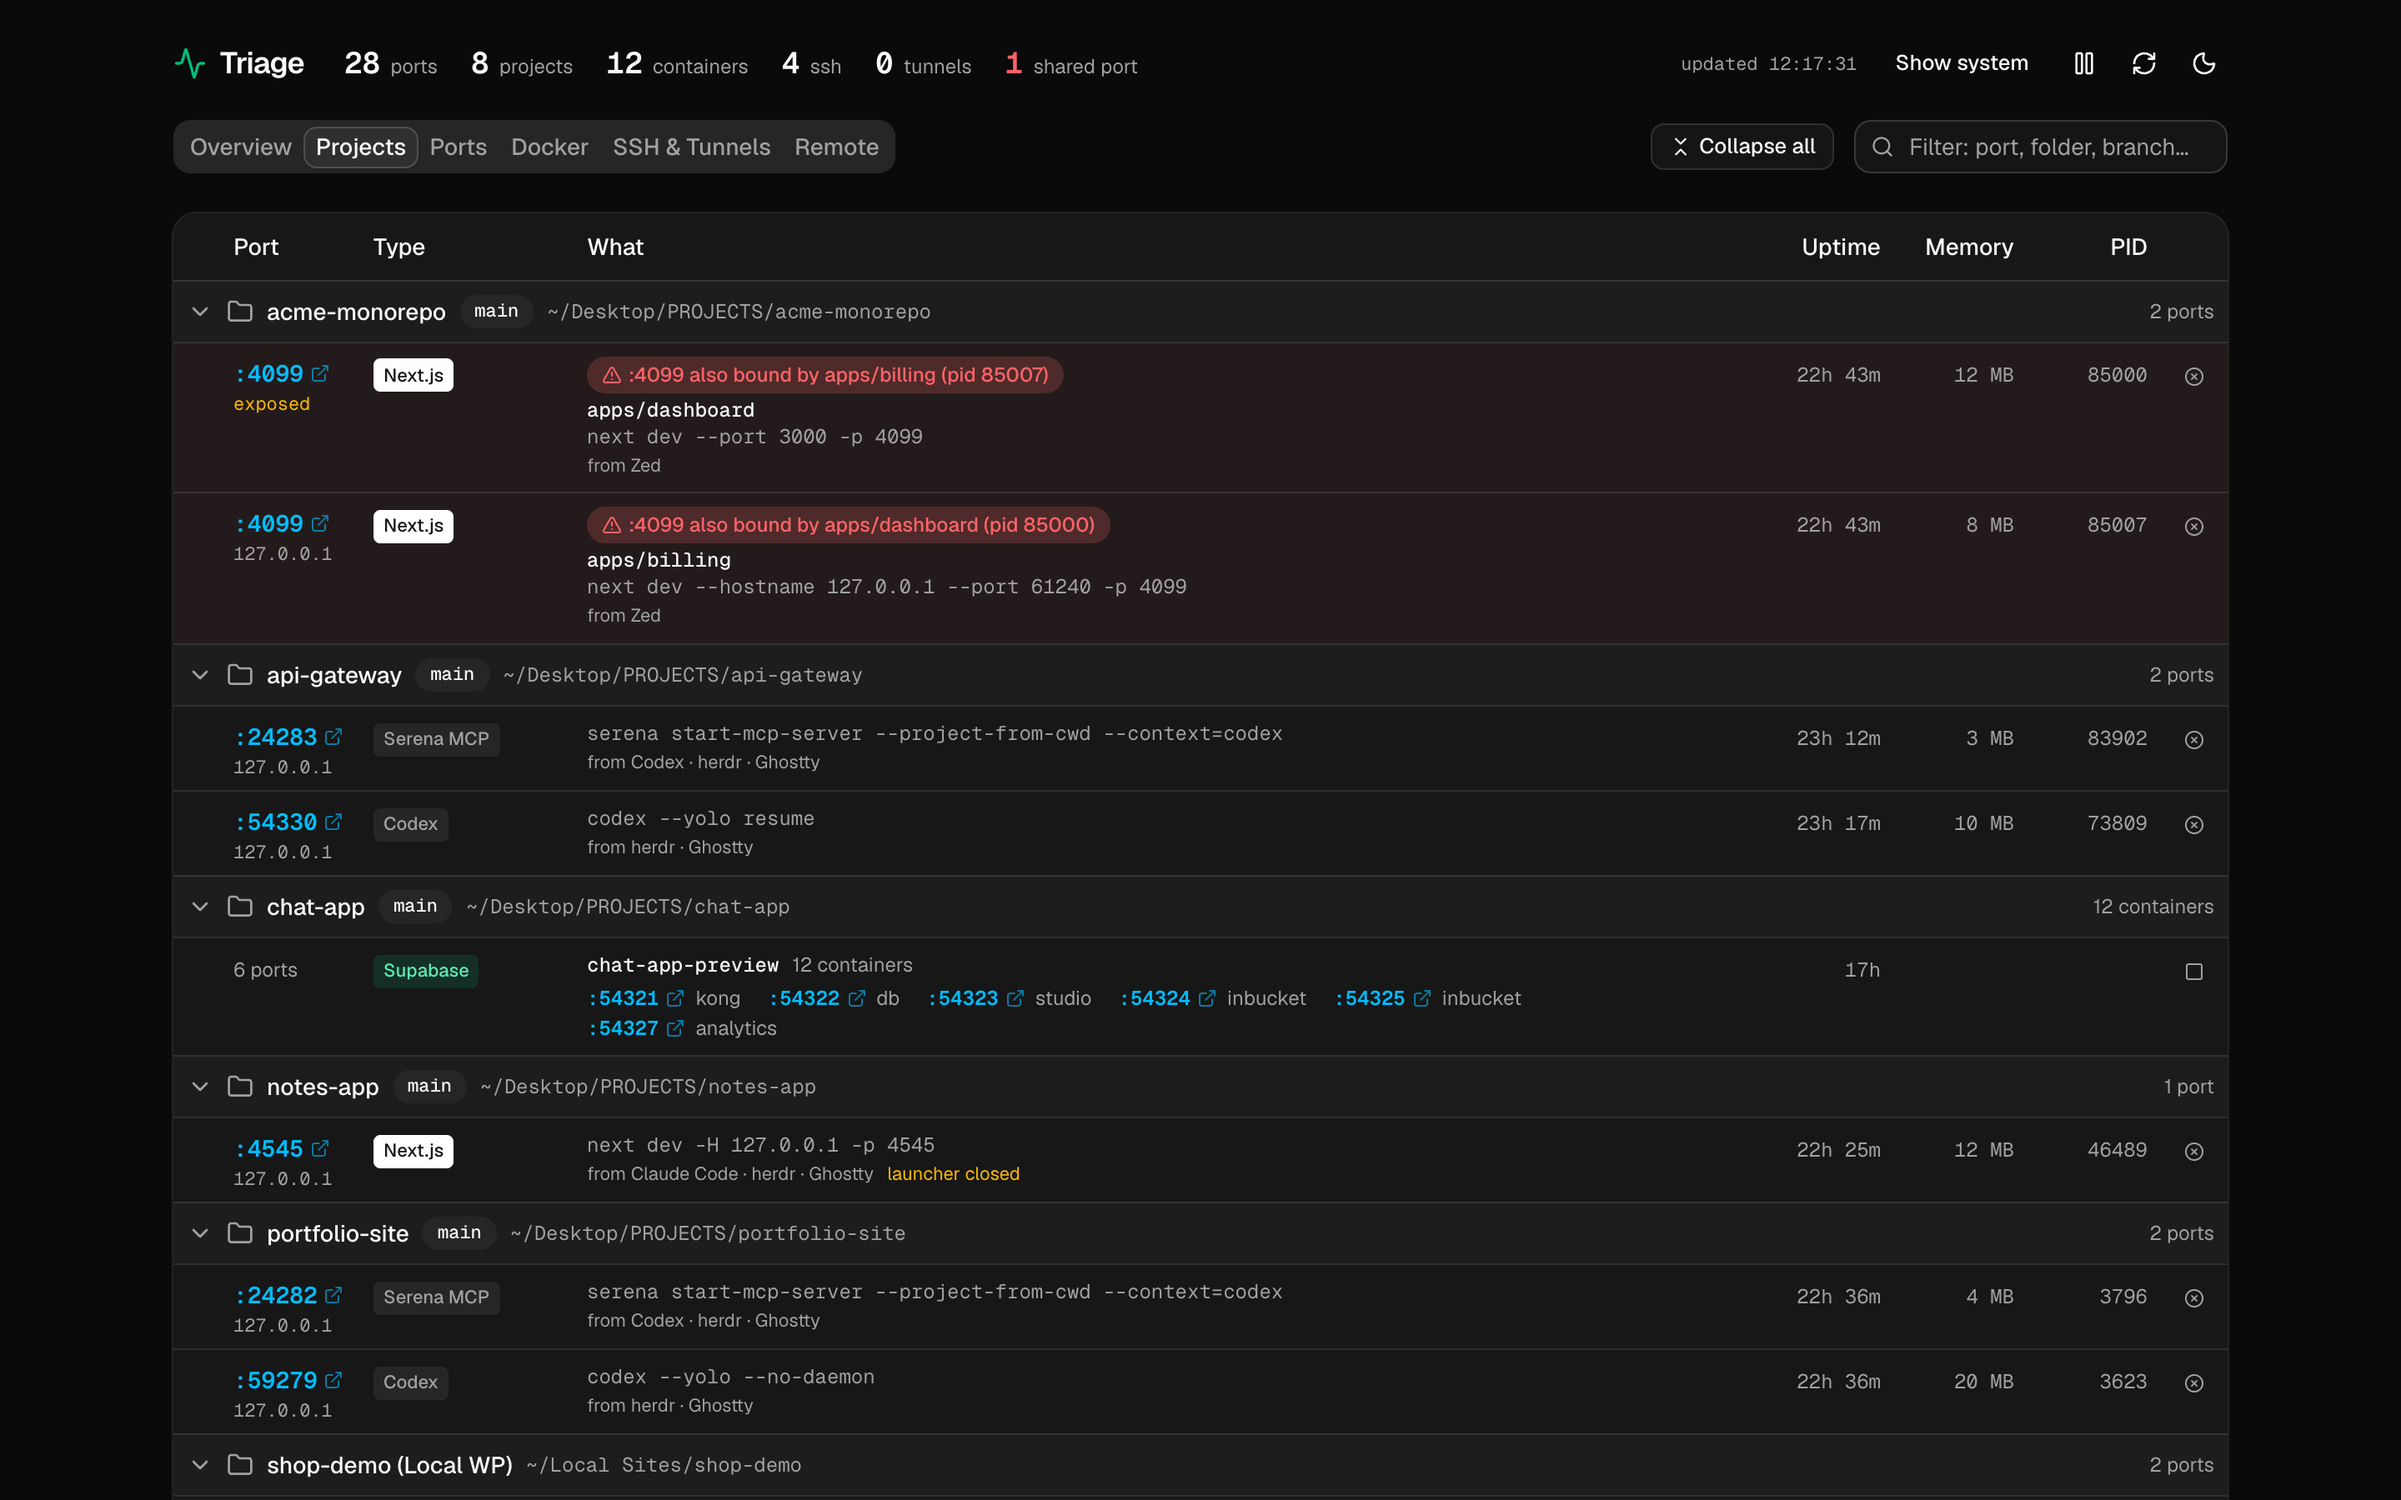
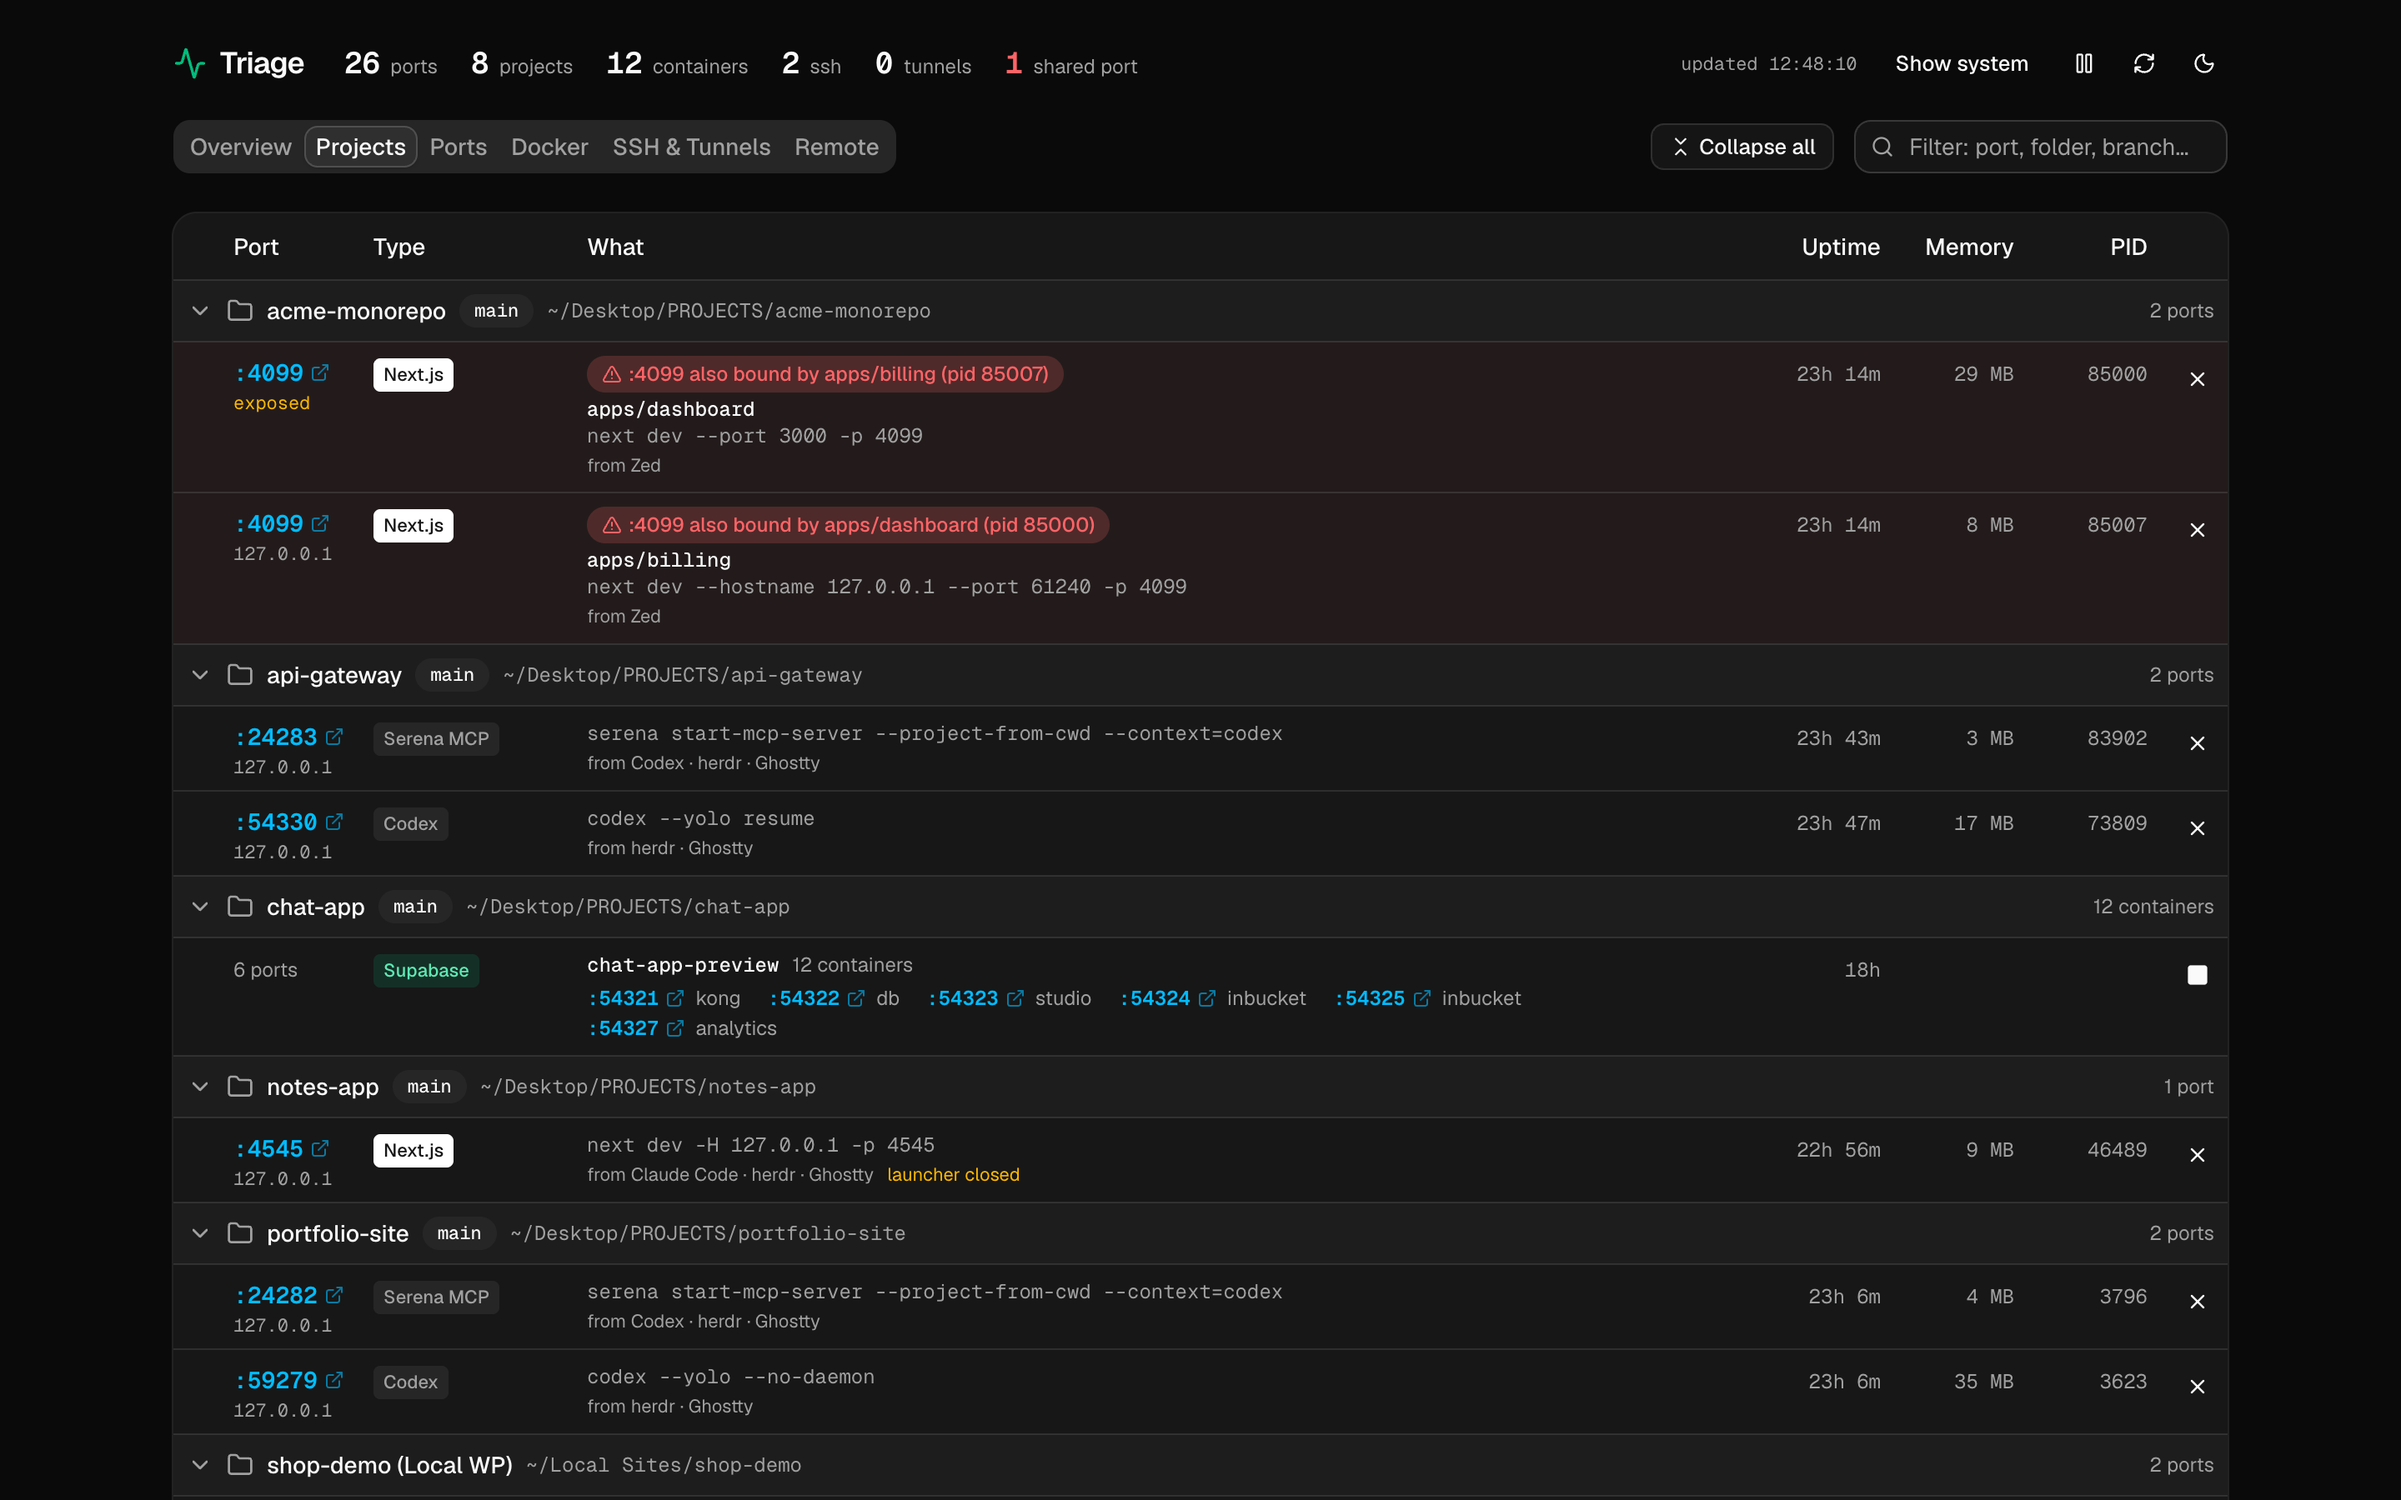
Fix README setup steps and refresh screenshots
- Clone command uses the real repo URL and the folder it creates (triage)
- Node requirement matches Vite 8 (20.19+ or 22.12+), now also enforced via
  the engines field in package.json; pnpm 12 install hint
- Feature text matches the current app: kill/start/restart actions and their
  icons, stopped containers, remote process stop, the SSH tunnel column,
  Show system
- New screenshots of every tab, with all personal names, paths, IPs and
  Tailscale details replaced by fictional ones

Claude-Session: https://claude.ai/code/session_01EJk8qZPLrQaPdpPdGBBgFo

diff --git a/README.md b/README.md
@@ -1,8 +1,8 @@
 # Triage
 
-**One local page that shows everything running on your Mac (and your dev servers) while you juggle several projects at once.**
+**One local page that shows everything running on your Mac and your remote dev servers while you juggle several projects at once.**
 
-Every listening port, dev server, Docker container, SSH tunnel and remote host, grouped by the project folder it belongs to, with who started it and a one-click stop button.
+Every listening port, dev server, Docker container, SSH tunnel and remote host, grouped by the project folder it belongs to, with who started it and stop buttons that ask before acting.
 
 <picture>
   <source media="(prefers-color-scheme: light)" srcset="docs/screenshots/overview-light.png">
@@ -35,13 +35,13 @@ Every listening port grouped by project folder, with git branch, worktree badge 
 
 ### Ports
 
-A flat table of every listening TCP port and what owns it: a process, a Docker or Supabase container (mapped through Docker Desktop or OrbStack), or an SSH `-L` forward.
+A flat table of every listening TCP port and what owns it: a process, a Docker or Supabase container (mapped through Docker Desktop or OrbStack), or an SSH `-L` forward. System services stay hidden until you click **Show system**.
 
 ![Ports tab: every listening port with its type, command line and project folder](docs/screenshots/ports.png)
 
 ### Docker
 
-Running containers grouped by compose or Supabase CLI project, linked to the project folder, with restart and stop per container or per stack.
+Containers grouped by compose or Supabase CLI project, linked to the project folder. Running containers can be restarted or stopped, one at a time or a whole stack at once. Stopped containers stay listed with a start button when their stack is still running or they stopped in the last 24 hours.
 
 ![Docker tab: a Supabase stack's containers with image, health and port mappings](docs/screenshots/docker.png)
 
@@ -53,33 +53,33 @@ Outgoing `ssh`/`autossh` connections with their forwards (including ones from `~
 
 ### Remote
 
-VPS hosts you add by SSH alias, probed every 30 seconds over SSH (`ss`, `/proc/<pid>/cwd`, `docker ps`, `git`). It uses passwordless `sudo -n` when available, so root-owned services are named too. Containers get the same table as the Docker tab, and local SSH tunnel ports show which remote service they reach.
+VPS hosts you add by SSH alias, probed every 30 seconds over SSH (`ss`, `/proc`, `df`, `docker ps`, `git`). It uses passwordless `sudo -n` when available, so root-owned services are named too. Containers get the same table as the Docker tab, dev servers can be stopped like local ones, and an SSH tunnel column shows which local port reaches each remote service.
 
 ![Remote tab: a VPS's listening ports with process, folder and the local SSH tunnel that reaches each one](docs/screenshots/remote.png)
 
 ### Stop things safely
 
-The ■ buttons (always with a confirmation) can:
+Every action asks for confirmation first:
 
-- SIGTERM or force-kill a dev server: the `next dev`/`vite` CLI, not just its worker
-- disconnect an SSH tunnel: the `autossh` supervisor too, so it doesn't reconnect
-- stop a tunnel client
-- `docker stop` a container or a whole compose/Supabase group
+- **✕ kill** a dev server (SIGTERM, or SIGKILL with *Force kill*): the `next dev`/`vite` CLI, not just its worker; also tunnel clients such as `cloudflared` or `ngrok`
+- **disconnect** an SSH tunnel: the `autossh` supervisor too, so it doesn't reconnect
+- **■ stop**, **▶ start** or **↻ restart** a container, or stop and start a whole compose/Supabase stack
 
 This works locally and on remote hosts (over SSH, with `sudo -n` if needed). The server re-checks every target against a fresh scan before acting, and never stops system processes or itself.
 
 ## Requirements
 
 - **macOS** (uses `lsof` and `ps`)
-- **Node.js 20.11+** and **pnpm**
+- **Node.js 20.19+ or 22.12+** (required by Vite 8)
+- **pnpm 12** (pinned in `package.json`): `npm install -g pnpm@12`, or `corepack enable` if your Node ships Corepack
 - Optional: Docker Desktop or OrbStack, Tailscale, SSH. Anything missing is skipped.
 - Remote hosts: Linux with `ss`, reachable with key-based SSH auth
 
 ## Getting started
 
 ```bash
-git clone <this repo>
-cd triage-app
+git clone https://github.com/sladjanstojcic/triage.git
+cd triage
 pnpm install
 pnpm dev
 ```
@@ -122,7 +122,7 @@ Don't expose it through a tunnel or reverse proxy.
 
 ## Tech stack
 
-React 19, Vite, Tailwind CSS 4 and shadcn/ui (Base UI) in the browser. A small Node HTTP server (`src/server`) collects data with `lsof`, `ps`, `docker`, `git`, `ssh` and `tailscale`.
+React 19, Vite, Tailwind CSS 4 and shadcn/ui (Base UI) in the browser. A small Node HTTP server (`src/server`) collects data with `lsof`, `ps`, `sysctl`, `vm_stat`, `df`, `docker`, `git`, `ssh` and `tailscale`.
 
 ## License
 
